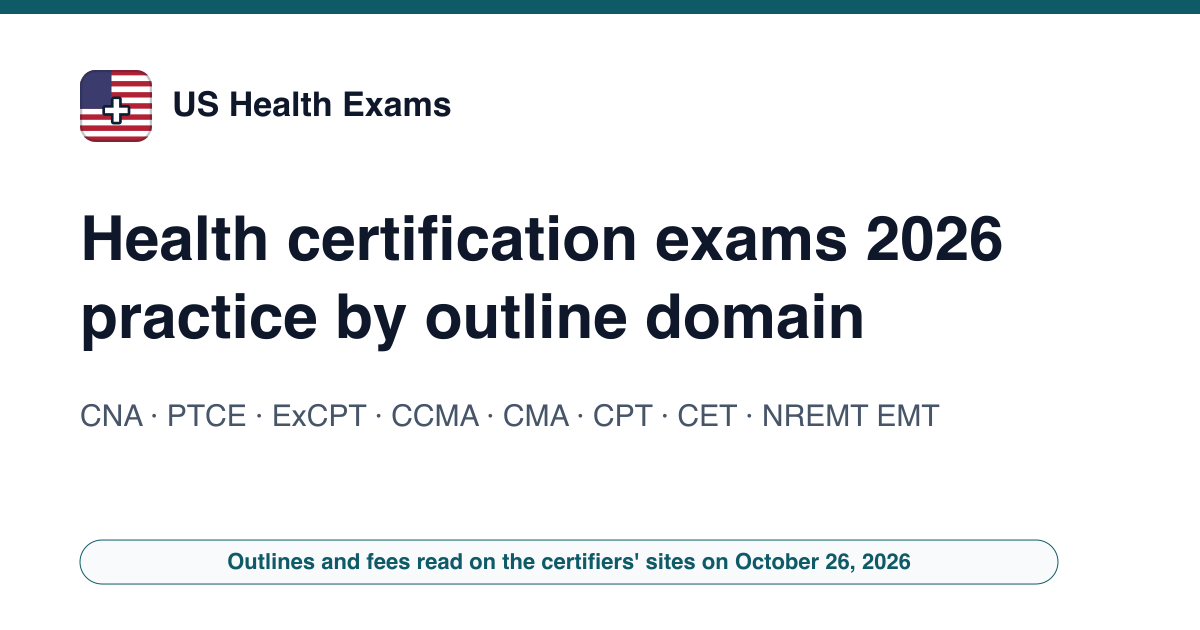
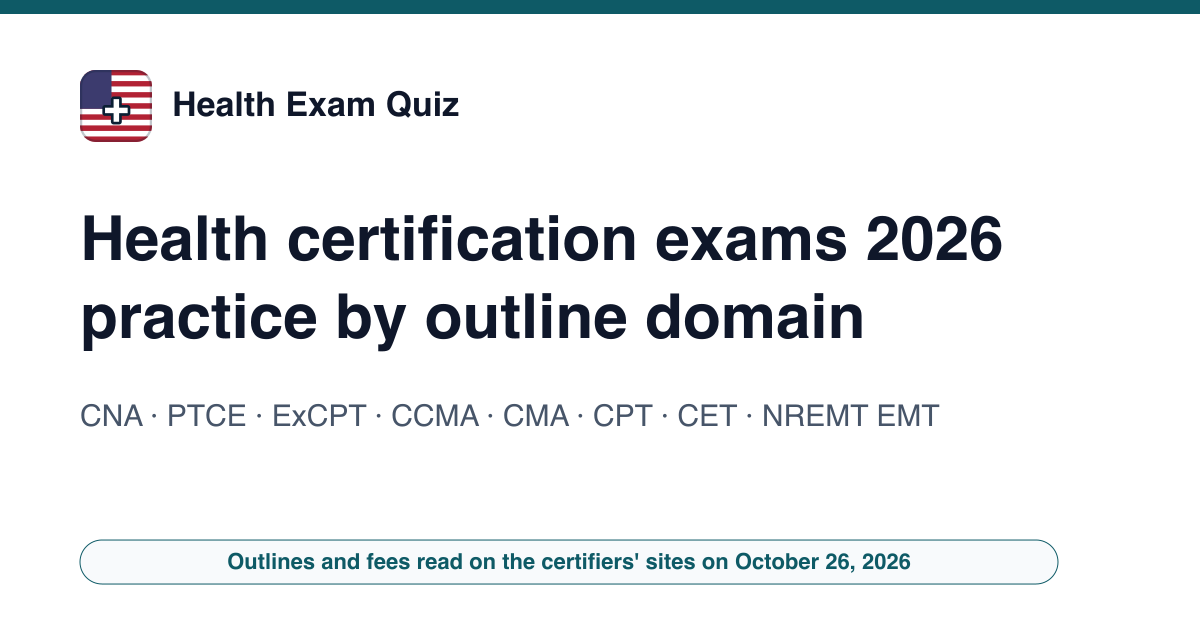
Renommage : US Health Exams devient Health Exam Quiz (healthexamquiz.com)
Adresse, CNAME, robots, manifeste, pages de service, images OG, contact@healthexamquiz.com, workflow Pages avec ping IndexNow.

Changed region(s): [[0.1542, 0.1206, 0.4008, 0.181]]

diff --git a/src/i18n/ui.ts b/src/i18n/ui.ts
@@ -6,7 +6,7 @@ const en = {
   asOf: 'Exam formats, fees and rules', lastUpdated: 'read on the certifying bodies’ own pages, last checked on',
   footerValidated: 'Every format, fee and retake rule links to the certifier or state page it was read on',
   footerBrowser: 'Quizzes and calculators run in your browser · nothing you type is sent · progress stays in this browser · free, no account, no email',
-  footerDisclaimer: 'US Health Exams is an independent site published by Radif Partners. It is not affiliated with, endorsed by or connected to the PTCB, the NHA, the AAMA, the NREMT, the NCSBN, Credentia, Prometric, Pearson VUE, D&S Diversified Technologies or any state agency, and it is not a school or a training program. Its practice questions are written from public content outlines and are not questions from the real exams. Nothing here is medical advice: the clinical facts are exam content. Fees, formats and rules are given for guidance; confirm them with the certifying body or your state before you apply.',
+  footerDisclaimer: 'Health Exam Quiz is an independent site published by Radif Partners. It is not affiliated with, endorsed by or connected to the PTCB, the NHA, the AAMA, the NREMT, the NCSBN, Credentia, Prometric, Pearson VUE, D&S Diversified Technologies or any state agency, and it is not a school or a training program. Its practice questions are written from public content outlines and are not questions from the real exams. Nothing here is medical advice: the clinical facts are exam content. Fees, formats and rules are given for guidance; confirm them with the certifying body or your state before you apply.',
   footerPopular: 'Practice',
   notFound: 'There is no page at this address. Free practice tests for the CNA, pharmacy technician, medical assistant, phlebotomy, EKG and EMT exams start on the home page.',
   readMore: 'Read more', back: 'Home',

diff --git a/src/data/site-config.ts b/src/data/site-config.ts
@@ -1,6 +1,6 @@
 /** Configuration centrale du site (générée par new-site.py). */
-export const SITE_URL = "https://us-health-exams.example";
-export const SITE_NAMES: Record<string, string> = {"en": "US Health Exams"};
+export const SITE_URL = "https://healthexamquiz.com";
+export const SITE_NAMES: Record<string, string> = {"en": "Health Exam Quiz"};
 // Partie du nom affichée en couleur dans l'en-tête (RECETTE §10.3), « » pour aucune.
 export const BRAND_ACCENT = "";
 export const LANG_TAGS: Record<string, string> = {"en": "en-US"};
@@ -18,7 +18,7 @@ export const AUTHOR_DESC: Record<string, string> = {"en": "Radif Partners reads 
  *  themes reellement traites par le site, pas une liste de mots-cles : un sujet
  *  declare ici sans page qui le couvre est une declaration fausse. */
 export const KNOWS_ABOUT: Record<string, string[]> = {"en": ["Nurse aide competency evaluation (NNAAP and state CNA exams)", "Pharmacy Technician Certification Exam (PTCE) content outline", "ExCPT pharmacy technician exam", "Certified Clinical Medical Assistant (CCMA) and CMA (AAMA) exams", "Certified Phlebotomy Technician (CPT) and Certified EKG Technician (CET) exams", "NREMT EMT cognitive exam", "Pharmacy math and dosage calculations"]};
-export const CONTACT_EMAIL = "contact@us-health-exams.example";
+export const CONTACT_EMAIL = "contact@healthexamquiz.com";
 export const THEME_COLOR = '#0E5A66';
 export const LOGO_SYMBOL = '+';
 export const BING_VERIFY_CODE = '';
